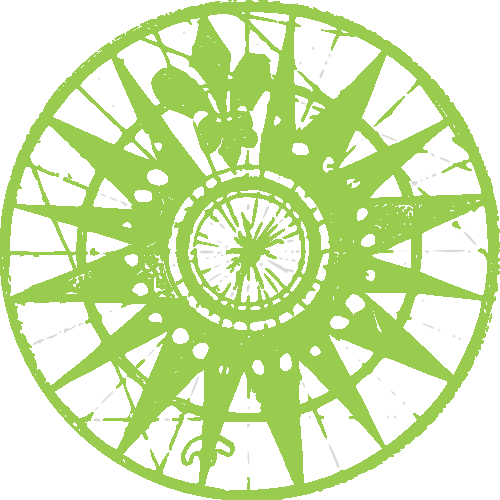
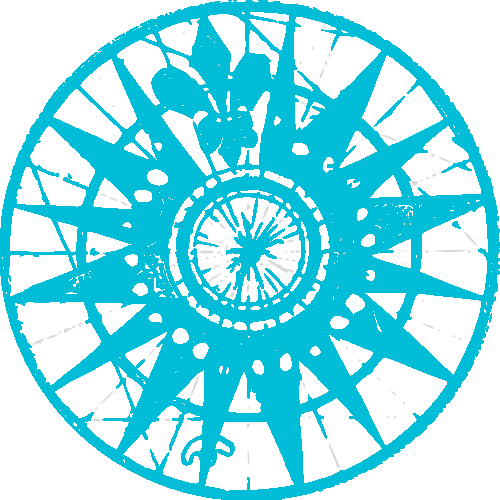
map funds new image

diff --git a/client/components/homePage/home.import.less b/client/components/homePage/home.import.less
@@ -206,6 +206,10 @@
   background-image: url("images/mapy.png");
 }
 
+#mapy-tile:hover {
+  color: @mzk-text-blue;
+}
+
 #mapy-tile:hover #mapy-image {
   background-image: url("images/mapyHover.png");
 }
